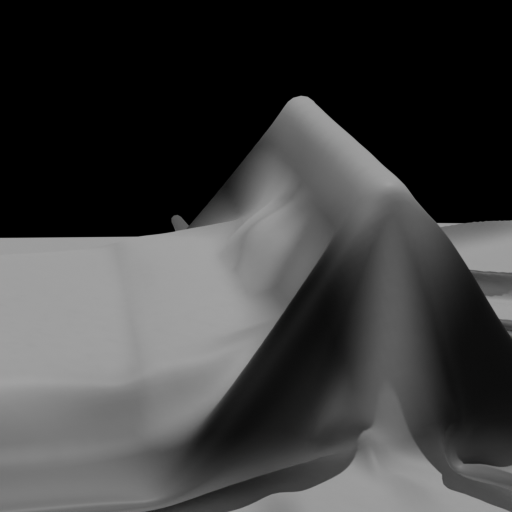
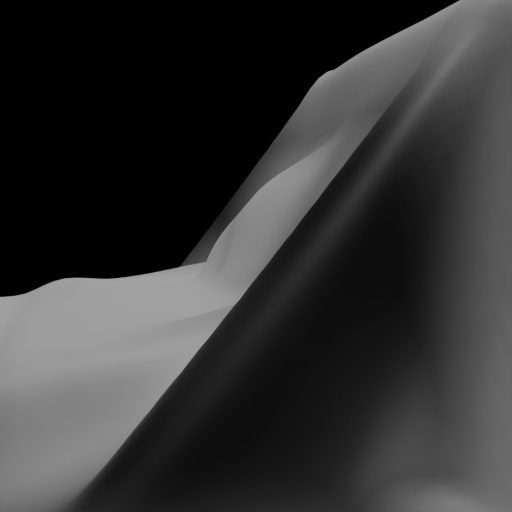
Improved version with no shadows for the distance cloth rendering

diff --git a/part2/scripts/create_rendered_image.py b/part2/scripts/create_rendered_image.py
@@ -24,16 +24,20 @@ imported_obj = bpy.context.selected_objects[0]
 bpy.context.view_layer.objects.active = imported_obj
 bpy.ops.object.shade_smooth()
 
-# Enable vertex color if is distance mesh
+#Enable vertex color if is distance mesh
 if is_distance_mesh:
     # create new material and add vertex color as a color attribute
     mat = bpy.data.materials.new(name="VertexMat")
     mat.use_nodes = True
     mat.node_tree.nodes.new(type='ShaderNodeVertexColor')
     mat.node_tree.nodes["Color Attribute"].layer_name = "Color"
-    mat.node_tree.links.new(mat.node_tree.nodes["Color Attribute"].outputs[0],
-                            mat.node_tree.nodes["Principled BSDF"].inputs[0])
+    mat.node_tree.links.new(mat.node_tree.nodes["Color Attribute"].outputs[0], mat.node_tree.nodes["Principled BSDF"].inputs[0])
     imported_obj.data.materials.append(mat)
+    bpy.context.object.active_material.shadow_method = 'NONE'
+    bpy.context.object.active_material.diffuse_color = (1, 1, 1, 1)
+
+
+
 
 # Set up rendering parameters
 scene = bpy.context.scene
@@ -41,11 +45,12 @@ scene.render.engine = 'CYCLES'  # Use the Cycles rendering engine
 scene.render.resolution_x = 512  # Set resolution width
 scene.render.resolution_y = 512  # Set resolution height
 
-if not is_distance_mesh:
-    # TIDI
-    print(" ")
+
 
 bpy.ops.object.light_add(type='SUN', radius=2, align='WORLD', location=(150, 150, 0))
+if is_distance_mesh:
+    bpy.context.object.data.cycles.cast_shadow = False
+
 
 # Create and position the camera
 camera_data = bpy.data.cameras.new(name='Camera')
@@ -54,7 +59,6 @@ scene.collection.objects.link(camera_object)
 scene.camera = camera_object
 
 camera_data.lens = 90
-
 
 def get_object_center(obj):
     local_bbox_center = sum((mathutils.Vector(b) for b in obj.bound_box), mathutils.Vector()) / 8
@@ -95,7 +99,6 @@ def look_at(obj, target):
     direction = target - obj.location
     rot_quat = direction.to_track_quat('-Z', 'Y')
     obj.rotation_euler = rot_quat.to_euler()
-
 
 # Create and position the camera (not shown for brevity)
 
